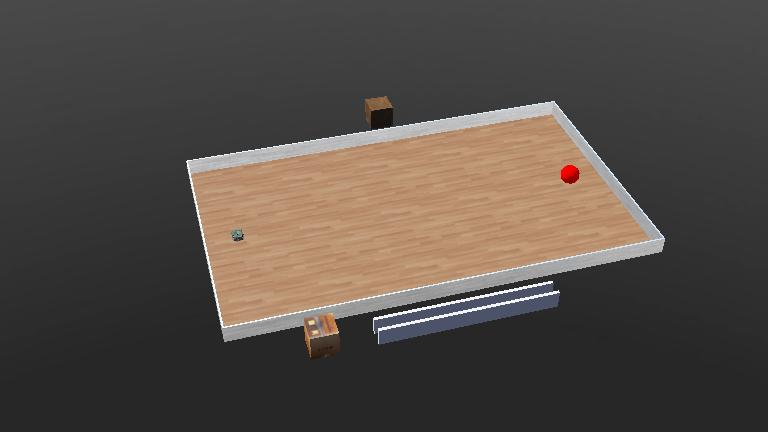
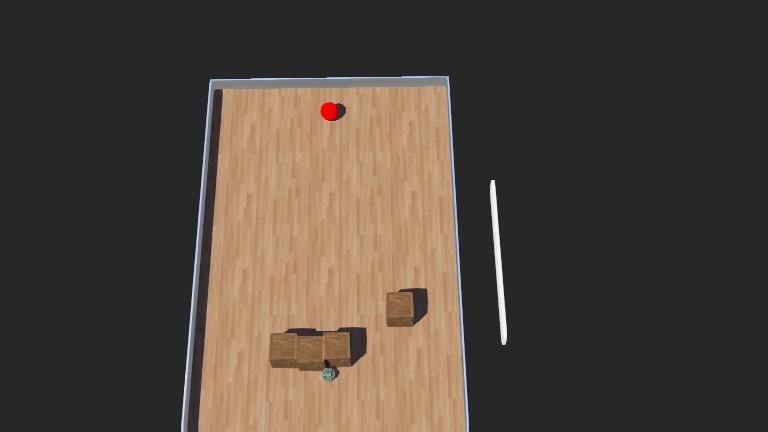
phase_2_5 trained

diff --git a/controllers/main/phase_2_5_trained_controller.py b/controllers/main/phase_2_5_trained_controller.py
@@ -1,0 +1,150 @@
+import os
+import platform
+import sys
+
+
+def _prepend_webots_controller_python_path():
+    """So `import controller` works when the script is not started by Webots."""
+    sysname = platform.system()
+
+    if "WEBOTS_HOME" not in os.environ or not os.environ["WEBOTS_HOME"]:
+        if sysname == "Darwin":
+            default_bundle = "/Applications/Webots.app"
+            if os.path.isdir(default_bundle):
+                os.environ["WEBOTS_HOME"] = default_bundle
+        elif sysname == "Linux":
+            for candidate in ("/usr/local/webots",):
+                if os.path.isdir(candidate):
+                    os.environ["WEBOTS_HOME"] = candidate
+                    break
+
+    home = os.environ.get("WEBOTS_HOME") or ""
+    if sysname == "Darwin" and home.rstrip("/").endswith("/Contents"):
+        fixed = os.path.dirname(home.rstrip("/"))
+        if fixed.endswith(".app"):
+            os.environ["WEBOTS_HOME"] = fixed
+            home = fixed
+
+    candidates = []
+    if home:
+        if sysname == "Darwin":
+            candidates.append(os.path.join(home, "Contents", "lib", "controller", "python"))
+        else:
+            candidates.append(os.path.join(home, "lib", "controller", "python"))
+    if sysname == "Darwin":
+        candidates.append("/Applications/Webots.app/Contents/lib/controller/python")
+    elif sysname == "Windows":
+        candidates.append(r"D:\Webots\lib\controller\python")
+        candidates.append(r"C:\Program Files\Webots\lib\controller\python")
+    elif sysname == "Linux":
+        candidates.append("/usr/local/webots/lib/controller/python")
+
+    for path in candidates:
+        if path and os.path.isdir(path):
+            sys.path.insert(0, path)
+            return
+
+    tried = ", ".join(p for p in candidates if p) or "(none)"
+    raise ImportError(
+        "Webots Python API not found (expected a folder containing controller.py). "
+        f"Tried: {tried}. Install Webots or set WEBOTS_HOME to the install root "
+        '(on macOS use e.g. WEBOTS_HOME=/Applications/Webots.app, not ".../Contents").'
+    )
+
+
+_prepend_webots_controller_python_path()
+
+from controller import Supervisor
+import numpy as np
+from stable_baselines3 import SAC
+
+MODEL_PATH = "randomized_following_red_ball_model"
+
+TIME_STEP = 64
+MAX_SPEED = 6.279
+WHEEL_DISTANCE = 0.052
+
+robot = Supervisor()
+robot.simulationSetMode(Supervisor.SIMULATION_MODE_FAST)
+
+camera = robot.getDevice('camera')
+camera.enable(TIME_STEP)
+CAMERA_WIDTH = camera.getWidth()
+CAMERA_HEIGHT = camera.getHeight()
+TOTAL_PIXELS = CAMERA_WIDTH * CAMERA_HEIGHT
+
+proximity_sensors = []
+for sensor_name in ['ps0', 'ps1', 'ps2', 'ps3', 'ps4', 'ps5', 'ps6', 'ps7']:
+    sensor = robot.getDevice(sensor_name)
+    sensor.enable(TIME_STEP)
+    proximity_sensors.append(sensor)
+
+left_motor = robot.getDevice('left wheel motor')
+right_motor = robot.getDevice('right wheel motor')
+left_motor.setPosition(float('inf'))
+right_motor.setPosition(float('inf'))
+left_motor.setVelocity(0.0)
+right_motor.setVelocity(0.0)
+
+
+def analyze_camera_for_red_ball():
+    raw_image = camera.getImage()
+    if not raw_image:
+        return 0.0, 0.0
+
+    image = np.frombuffer(raw_image, np.uint8).reshape((CAMERA_HEIGHT, CAMERA_WIDTH, 4))
+    blue_channel = image[:, :, 0]
+    green_channel = image[:, :, 1]
+    red_channel = image[:, :, 2]
+
+    red_pixel_mask = (red_channel > 130) & (green_channel < 80) & (blue_channel < 80)
+    red_pixel_count = np.count_nonzero(red_pixel_mask)
+    red_pixel_ratio = red_pixel_count / TOTAL_PIXELS
+
+    if red_pixel_count > 0:
+        red_pixel_columns = np.where(red_pixel_mask)[1]
+        average_x = np.mean(red_pixel_columns)
+        goal_horizontal_position = (average_x / (CAMERA_WIDTH - 1)) * 2.0 - 1.0
+    else:
+        goal_horizontal_position = 0.0
+
+    return red_pixel_ratio, goal_horizontal_position
+
+
+def read_proximity_sensors():
+    raw_values = np.array([sensor.getValue() for sensor in proximity_sensors], dtype=np.float32)
+    return np.clip(raw_values / 4095.0, 0.0, 1.0)
+
+
+model = SAC.load(MODEL_PATH)
+
+linear_velocity = 0.0
+angular_velocity = 0.0
+
+while robot.step(TIME_STEP) != -1:
+    red_pixel_ratio, goal_horizontal_position = analyze_camera_for_red_ball()
+    proximity_values = read_proximity_sensors()
+    observation = np.concatenate([
+        np.array(
+            [red_pixel_ratio, goal_horizontal_position, linear_velocity, angular_velocity],
+            dtype=np.float32,
+        ),
+        proximity_values,
+    ])
+
+    action, _ = model.predict(observation, deterministic=True)
+    linear_velocity = float(action[0])
+    angular_velocity = float(action[1])
+
+    left_wheel_speed = np.clip(
+        linear_velocity - angular_velocity * WHEEL_DISTANCE / 2.0,
+        -MAX_SPEED,
+        MAX_SPEED,
+    )
+    right_wheel_speed = np.clip(
+        linear_velocity + angular_velocity * WHEEL_DISTANCE / 2.0,
+        -MAX_SPEED,
+        MAX_SPEED,
+    )
+    left_motor.setVelocity(left_wheel_speed)
+    right_motor.setVelocity(right_wheel_speed)